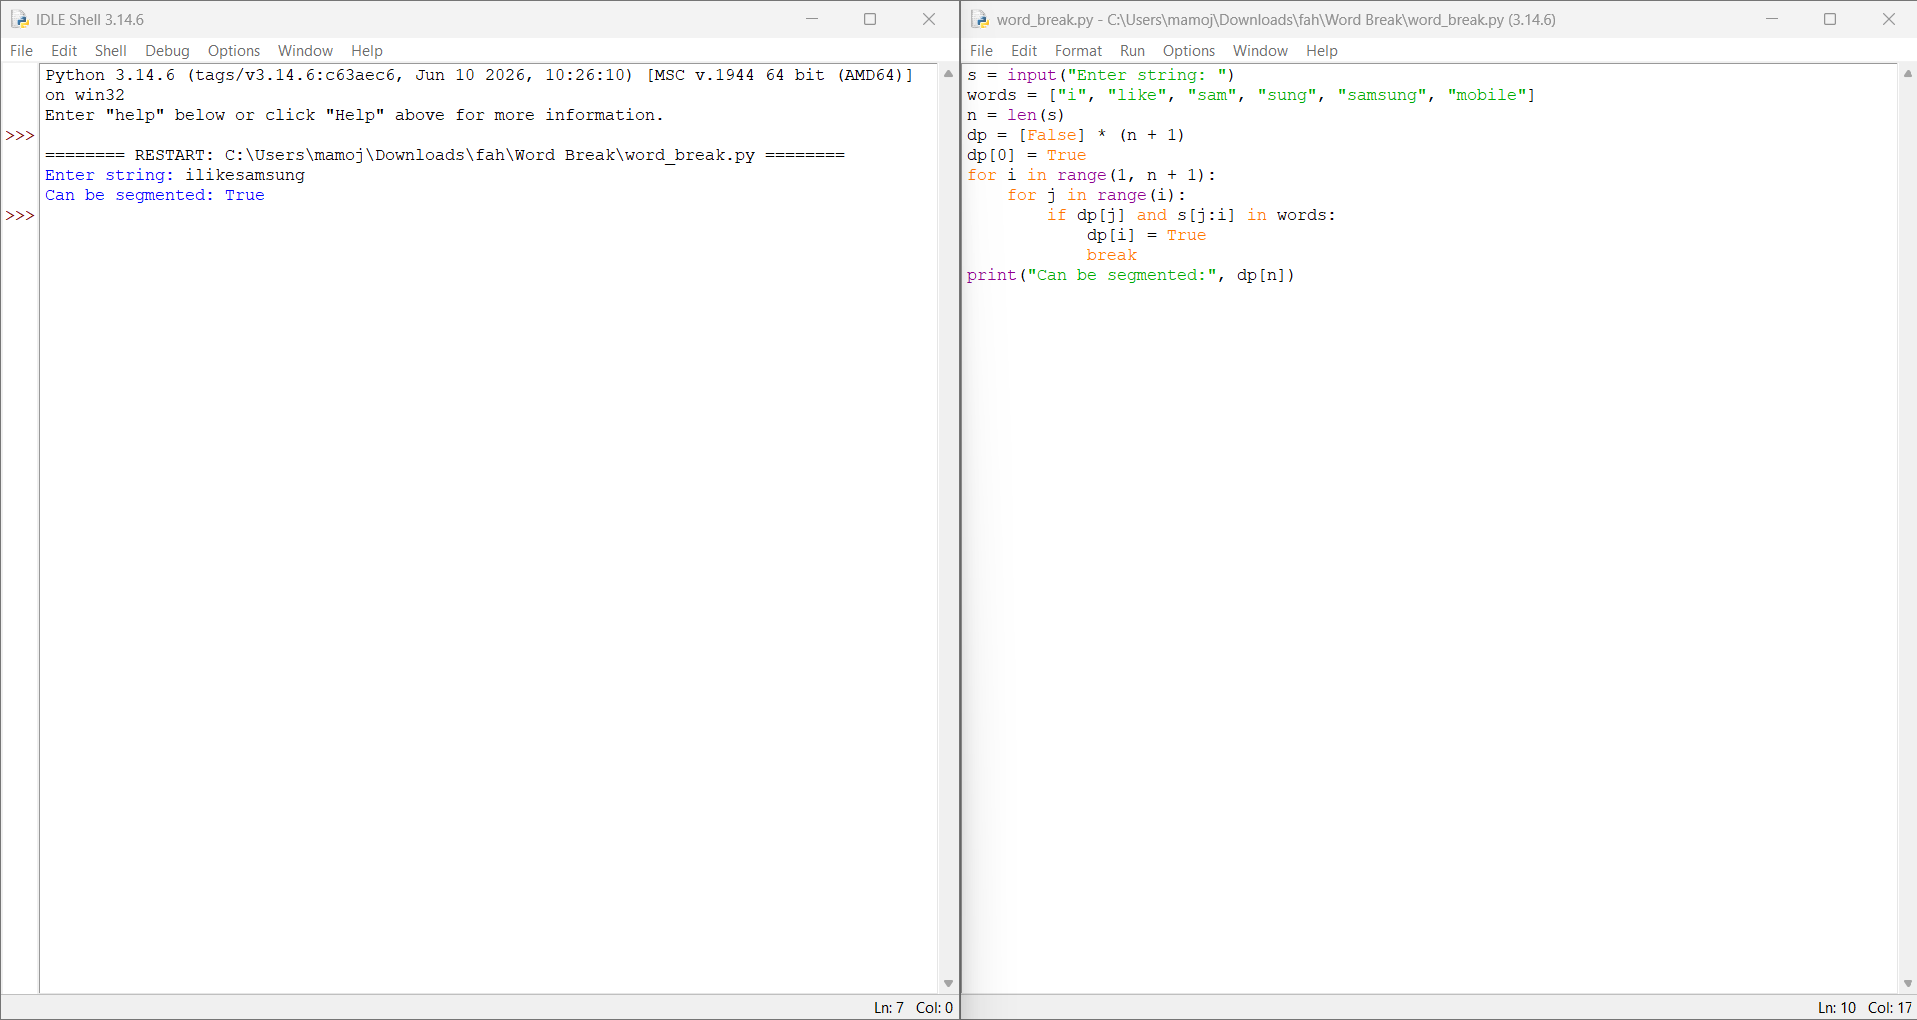
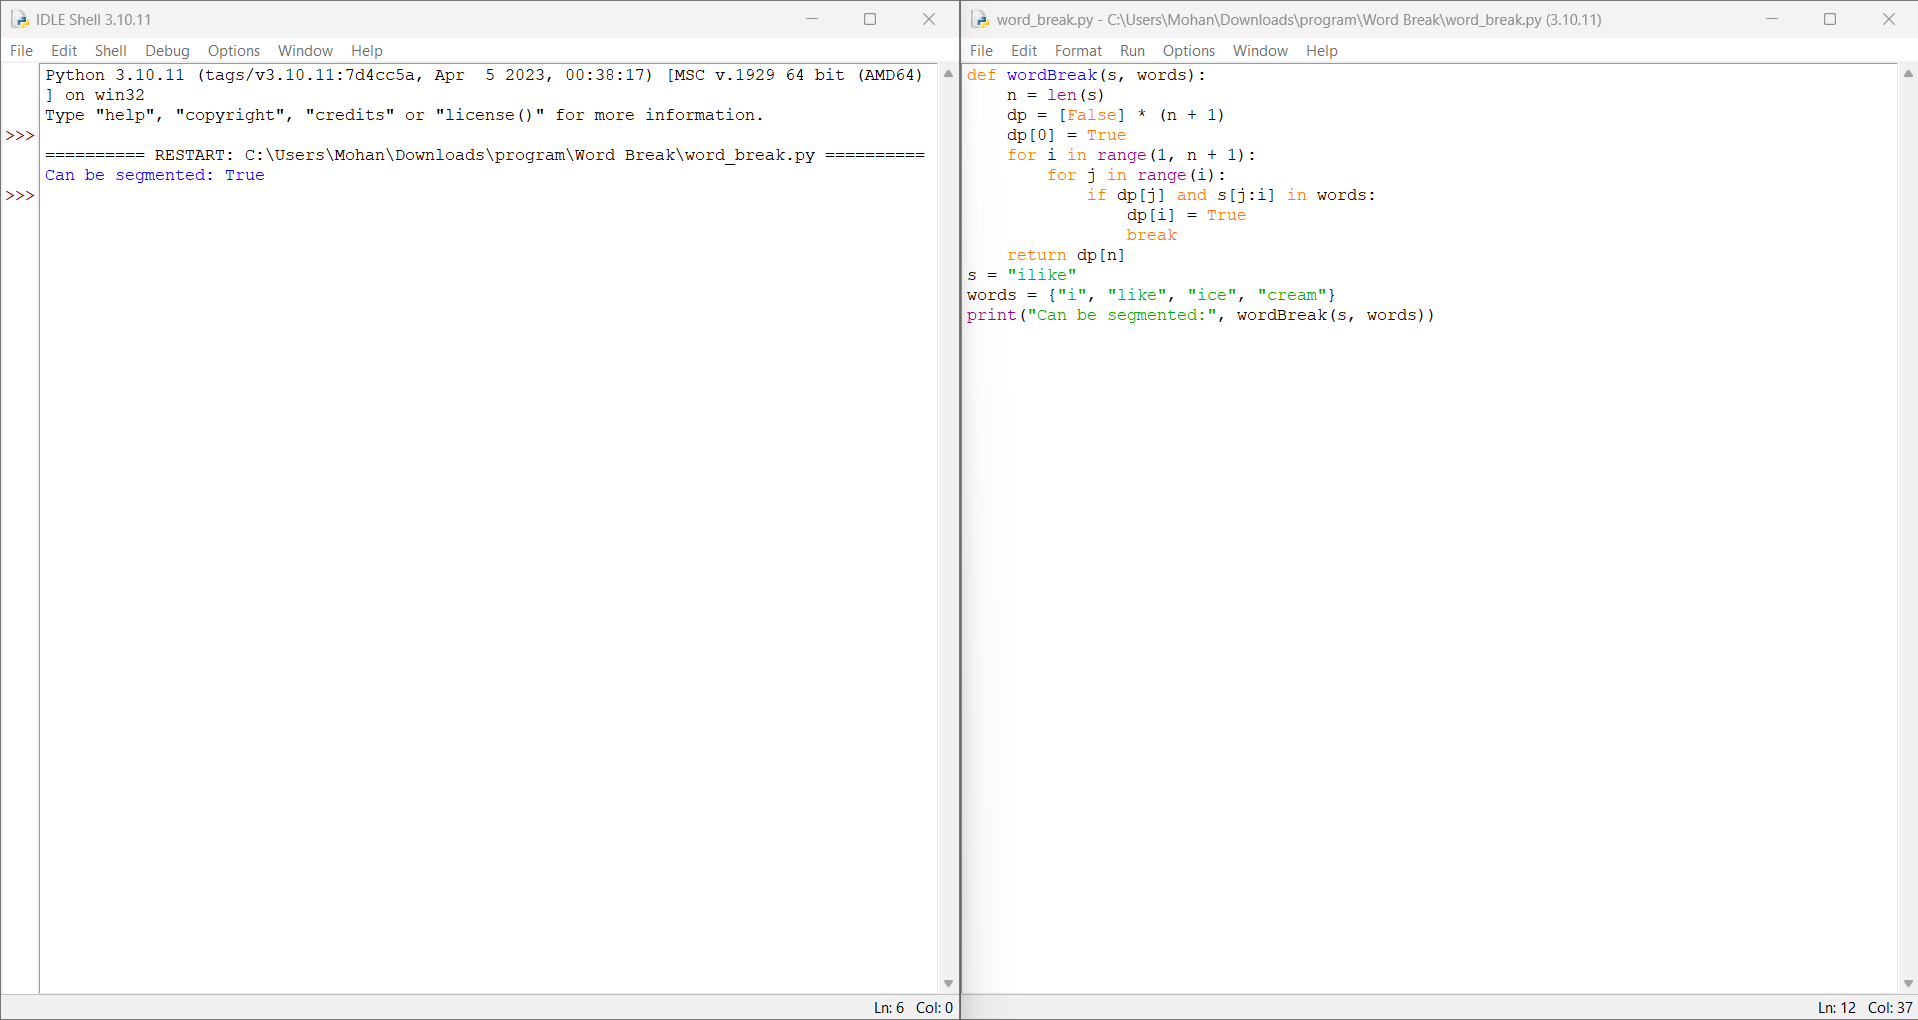
Add files via upload

diff --git a/Experiments/Word Break/word_break.py b/Experiments/Word Break/word_break.py
@@ -1,11 +1,13 @@
-s = input("Enter string: ")
-words = ["i", "like", "sam", "sung", "samsung", "mobile"]
-n = len(s)
-dp = [False] * (n + 1)
-dp[0] = True
-for i in range(1, n + 1):
-    for j in range(i):
-        if dp[j] and s[j:i] in words:
-            dp[i] = True
-            break
-print("Can be segmented:", dp[n])
+def wordBreak(s, words):
+    n = len(s)
+    dp = [False] * (n + 1)
+    dp[0] = True
+    for i in range(1, n + 1):
+        for j in range(i):
+            if dp[j] and s[j:i] in words:
+                dp[i] = True
+                break
+    return dp[n]
+s = "ilike"
+words = {"i", "like", "ice", "cream"}
+print("Can be segmented:", wordBreak(s, words))

diff --git a/Experiments/Optimal Binary Search Tree/obst.py b/Experiments/Optimal Binary Search Tree/obst.py
@@ -1,0 +1,19 @@
+def obst(keys, freq):
+    n = len(keys)
+    dp = [[0] * n for _ in range(n)]
+    for i in range(n):
+        dp[i][i] = freq[i]
+    for length in range(2, n + 1):
+        for i in range(n - length + 1):
+            j = i + length - 1
+            dp[i][j] = 999
+            total = sum(freq[i:j + 1])
+            for r in range(i, j + 1):
+                left = dp[i][r - 1] if r > i else 0
+                right = dp[r + 1][j] if r < j else 0
+                cost = left + right + total
+                dp[i][j] = min(dp[i][j], cost)
+    return dp[0][n - 1]
+keys = [10, 20, 30]
+freq = [34, 8, 50]
+print("Minimum OBST cost:", obst(keys, freq))

diff --git a/Experiments/Text Justification/text_justification.py b/Experiments/Text Justification/text_justification.py
@@ -1,0 +1,18 @@
+def wordWrap(words, width):
+    n = len(words)
+    dp = [999] * (n + 1)
+    dp[0] = 0
+    for i in range(1, n + 1):
+        length = 0
+        for j in range(i, 0, -1):
+            length += len(words[j - 1])
+            if i != j:
+                length += 1
+            if length > width:
+                break
+            cost = 0 if i == n else (width - length) ** 2
+            dp[i] = min(dp[i], dp[j - 1] + cost)
+    return dp[n]
+words = ["This", "is", "a", "text", "justification", "example"]
+width = 16
+print("Minimum cost:", wordWrap(words, width))

diff --git a/Experiments/Bellman-Ford/bellman_ford.py b/Experiments/Bellman-Ford/bellman_ford.py
@@ -1,0 +1,24 @@
+def bellmanFord(V, edges, src):
+    dist = [999] * V
+    dist[src] = 0
+    for _ in range(V - 1):
+        for u, v, w in edges:
+            if dist[u] + w < dist[v]:
+                dist[v] = dist[u] + w
+    print("Shortest distances:")
+    for i in range(V):
+        print(i, ":", dist[i])
+V = 5
+edges = [
+    (0, 1, 6),
+    (0, 2, 7),
+    (1, 2, 8),
+    (1, 3, 5),
+    (1, 4, -4),
+    (2, 3, -3),
+    (2, 4, 9),
+    (3, 1, -2),
+    (4, 0, 2),
+    (4, 3, 7)
+]
+bellmanFord(V, edges, 0)

diff --git a/Experiments/Knapsack-dp/knapsack_dp.py b/Experiments/Knapsack-dp/knapsack_dp.py
@@ -1,0 +1,17 @@
+def knapsack(w, v, W):
+    n = len(w)
+    dp = [[0] * (W + 1) for _ in range(n + 1)]
+    for i in range(1, n + 1):
+        for j in range(W + 1):
+            if w[i - 1] <= j:
+                dp[i][j] = max(
+                    v[i - 1] + dp[i - 1][j - w[i - 1]],
+                    dp[i - 1][j]
+                )
+            else:
+                dp[i][j] = dp[i - 1][j]
+    return dp[n][W]
+w = [2, 3, 4, 5]
+v = [3, 4, 5, 6]
+W = 5
+print("Maximum value:", knapsack(w, v, W))

diff --git a/Experiments/Warshall/warshall.py b/Experiments/Warshall/warshall.py
@@ -1,0 +1,18 @@
+def floydWarshall(a):
+    n = len(a)
+    for k in range(n):
+        for i in range(n):
+            for j in range(n):
+                a[i][j] = min(a[i][j],
+                               a[i][k] + a[k][j])
+    print("Shortest Path Matrix:")
+    for row in a:
+        print(row)
+INF = 999
+a = [
+    [0, 2, 9, INF],
+    [2, 0, 3, 4],
+    [9, 3, 0, 1],
+    [INF, 4, 1, 0]
+]
+floydWarshall(a)
